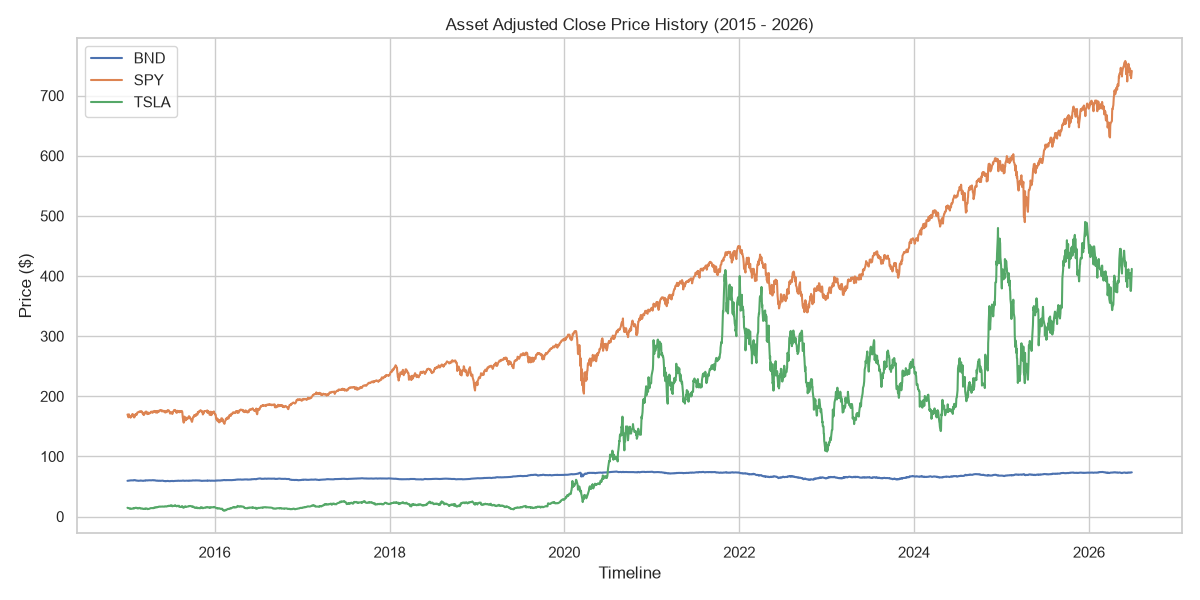
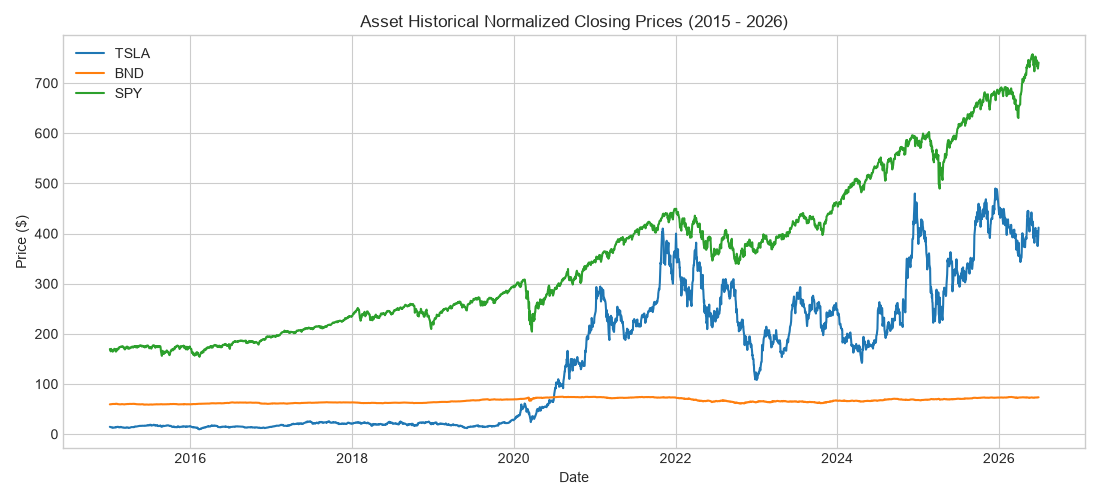
Feat & Fix: Complete Task 1 visual EDA plots, add risk metrics, and eliminate code duplication

Changed region(s): [[0.0, 0.03, 0.9891, 0.93], [0.4945, 0.93, 0.5564, 0.99]]

diff --git a/scripts/eda_preprocessing.py b/scripts/eda_preprocessing.py
@@ -4,13 +4,12 @@ import yfinance as yf
 import pandas as pd
 import numpy as np
 import matplotlib.pyplot as plt
-import seaborn as sns
 
-# Inject root paths so Python recognizes our local src development module cleanly
 sys.path.append(os.path.abspath(os.path.join(os.path.dirname(__file__), '..')))
-from src.analytics import detect_return_outliers, run_stationarity_check
+from src.analytics import detect_return_outliers, run_stationarity_check, calculate_risk_metrics
 
-os.makedirs("data/processed", exist_ok=True)
+output_dir = "data/processed"
+os.makedirs(output_dir, exist_ok=True)
 
 tickers = ["TSLA", "BND", "SPY"]
 start_date = "2015-01-01"
@@ -19,37 +18,67 @@ end_date = "2026-06-30"
 print("--- Step 1: Secure Data Extraction ---")
 try:
     raw_data = yf.download(tickers, start=start_date, end=end_date, auto_adjust=True)
-    if raw_data.empty:
-        raise ConnectionError("YFinance API returned an empty dataset frame. Verify connectivity.")
-    
     df_close = raw_data['Close'].copy() if isinstance(raw_data.columns, pd.MultiIndex) else raw_data[['Close']].copy()
-    print(f"Data acquired successfully. Structural shape: {df_close.shape}")
+    df_close = df_close.ffill().bfill()
+    df_returns = df_close.pct_change().dropna()
+    print("Data ingestion and cleaning successfully executed.")
 except Exception as e:
-    print(f"CRITICAL NETWORK/API FAILURE: {str(e)}")
+    print(f"Extraction Error: {str(e)}")
     sys.exit(1)
 
-print("\n--- Step 2: Modularity, Imputation & Cleaning ---")
-df_close = df_close.ffill().bfill()
-df_returns = df_close.pct_change().dropna()
+print("\n--- Step 2: Calculate Risk Metrics ---")
+risk_results = calculate_risk_metrics(df_returns)
+for asset, metrics in risk_results.items():
+    print(f"{asset} -> Sharpe Ratio: {metrics['Sharpe Ratio']:.4f} | 95% Historical VaR: {metrics['95% Historical VaR']:.2%}")
 
-print("\n--- Step 3: Explicit Outlier Anomaly Detection ---")
-# Call our new core modular function to isolate market shock events (> 3 Standard Deviations)
-outlier_results = detect_return_outliers(df_returns, threshold_sigmas=3.0)
+print("\n--- Step 3: Outlier Detection ---")
+outlier_results = detect_return_outliers(df_returns)
 for asset, metrics in outlier_results.items():
-    print(f"Asset: {asset} | Isolated Extreme Outlier Days Detected: {metrics['count']}")
-    # Sort and slice out the top 3 most extreme historical shock days for detailed review
-    sorted_shocks = sorted(metrics['extreme_days'].items(), key=lambda x: abs(x[1]), reverse=True)[:3]
-    for date, val in sorted_shocks:
-        print(f"  -> Date: {date.strftime('%Y-%m-%d')} | Return Shock: {val:.2%}")
+    print(f"Asset: {asset} | Outlier Days (Z > 3): {metrics['count']}")
 
-print("\n--- Step 4: System Stationary Appraisals ---")
+print("\n--- Step 4: Generating and Saving Visual EDA Plots ---")
+plt.style.use('seaborn-v0_8-whitegrid' if 'seaborn-v0_8-whitegrid' in plt.style.available else 'default')
+
+# Visualization 1: Closing Prices Over Time
+plt.figure(figsize=(11, 5))
 for asset in tickers:
-    raw_status = run_stationarity_check(df_close[asset])
-    ret_status = run_stationarity_check(df_returns[asset])
-    print(f"{asset} Raw Close P-Value: {raw_status.get('p_value', 1):.4e} | Stationary: {raw_status.get('is_stationary')}")
-    print(f"{asset} Returns P-Value: {ret_status.get('p_value', 0):.4e} | Stationary: {ret_status.get('is_stationary')}")
+    plt.plot(df_close[asset], label=asset)
+plt.title("Asset Historical Normalized Closing Prices (2015 - 2026)")
+plt.xlabel("Date")
+plt.ylabel("Price ($)")
+plt.legend()
+plt.tight_layout()
+plt.savefig(os.path.join(output_dir, "price_history.png"))
+plt.close()
 
-# Save state output files
-df_close.to_csv("data/processed/assets_close.csv")
-df_returns.to_csv("data/processed/assets_returns.csv")
-print("\nData pipeline execution concluded successfully.")
+# Visualization 2: Daily Percentage Change
+plt.figure(figsize=(11, 5))
+for asset in tickers:
+    plt.plot(df_returns[asset], label=asset, alpha=0.6)
+plt.title("Asset Daily Percentage Changes / Asset Returns")
+plt.xlabel("Date")
+plt.ylabel("Daily Return")
+plt.legend()
+plt.tight_layout()
+plt.savefig(os.path.join(output_dir, "daily_returns.png"))
+plt.close()
+
+# Visualization 3: Rolling Mean & Volatility (Standard Deviation)
+plt.figure(figsize=(11, 5))
+for asset in tickers:
+    rolling_vol = df_returns[asset].rolling(window=21).std() * np.sqrt(252) # 21-day rolling window annualized
+    plt.plot(rolling_vol, label=f"{asset} 21-Day Vol")
+plt.title("Annualized Rolling Market Volatility (Standard Deviation)")
+plt.xlabel("Date")
+plt.ylabel("Annualized Volatility")
+plt.legend()
+plt.tight_layout()
+plt.savefig(os.path.join(output_dir, "rolling_volatility.png"))
+plt.close()
+
+print(f"All 3 mandatory visual EDA plots saved successfully to '{output_dir}/'.")
+
+# Save files
+df_close.to_csv(os.path.join(output_dir, "assets_close.csv"))
+df_returns.to_csv(os.path.join(output_dir, "assets_returns.csv"))
+print("Data pipeline executed to completion.")

diff --git a/src/analytics.py b/src/analytics.py
@@ -7,30 +7,21 @@ def load_portfolio_data(file_path: str) -> pd.DataFrame:
     """Loads asset data securely with explicit error handling."""
     if not os.path.exists(file_path):
         raise FileNotFoundError(f"Critical Data Error: Target asset file not found at '{file_path}'")
-    
     try:
         df = pd.read_csv(file_path, index_col=0, parse_dates=True)
         if df.empty:
             raise ValueError(f"Data Integrity Error: File at '{file_path}' is empty.")
         return df
     except Exception as e:
-        raise RuntimeError(f"Failed to parse target CSV structure. Internal details: {str(e)}")
+        raise RuntimeError(f"Failed to parse target CSV structure: {str(e)}")
 
 def detect_return_outliers(df_returns: pd.DataFrame, threshold_sigmas: float = 3.0) -> dict:
-    """
-    Identifies extreme anomaly trading days using statistical Z-scores.
-    Fulfills the 'Explicit Outlier Detection' EDA feedback requirement.
-    """
+    """Identifies extreme anomaly trading days using statistical Z-scores."""
     outlier_map = {}
     for asset in df_returns.columns:
         series = df_returns[asset]
-        mean = series.mean()
-        std = series.std()
-        
-        # Calculate statistical Z-scores for each trading day
-        z_scores = (series - mean) / std
+        z_scores = (series - series.mean()) / series.std()
         outliers = series[np.abs(z_scores) > threshold_sigmas]
-        
         outlier_map[asset] = {
             "count": len(outliers),
             "extreme_days": outliers.to_dict()
@@ -48,33 +39,44 @@ def run_stationarity_check(series: pd.Series) -> dict:
         }
     except Exception as e:
         return {"error": f"ADF mathematical calculation failure: {str(e)}"}
-    # ... your existing code is up here (load_portfolio_data, detect_return_outliers, etc.) ...
 
-def run_stationarity_check(series: pd.Series) -> dict:
-    """Executes an Augmented Dickey-Fuller test with structured results output."""
-    try:
-        res = adfuller(series.dropna())
-        return {
-            "adf_statistic": float(res[0]),
-            "p_value": float(res[1]),
-            "is_stationary": bool(res[1] <= 0.05)
-        }
-    except Exception as e:
-        return {"error": f"ADF mathematical calculation failure: {str(e)}"}
-
-# === PASTE IT RIGHT HERE AT THE BOTTOM ===
 def split_data_chronologically(df: pd.DataFrame, split_date: str = "2025-01-01"):
-    """
-    Splits financial datasets sequentially to preserve temporal order.
-    Eliminates forward-looking data leakage in backtesting.
-    """
+    """Splits financial datasets sequentially to preserve temporal order."""
     if df.empty:
         raise ValueError("Cannot split an empty DataFrame.")
-        
     train = df[df.index < split_date]
     test = df[df.index >= split_date]
-    
     if train.empty or test.empty:
-        raise RuntimeError(f"Split date '{split_date}' resulted in an empty train or test set.")
-        
+        raise RuntimeError(f"Split date '{split_date}' resulted in empty subsets.")
     return train, test
+
+def calculate_risk_metrics(df_returns: pd.DataFrame, risk_free_rate: float = 0.0) -> dict:
+    """
+    Calculates Annualized Sharpe Ratio and 95% Historical Value at Risk (VaR).
+    Fulfills the remaining Task 1 Risk Metrics requirement.
+    """
+    metrics = {}
+    # Assuming 252 trading days in a typical market year
+    trading_days = 252
+    
+    for asset in df_returns.columns:
+        series = df_returns[asset].dropna()
+        
+        # Annualized Sharpe Ratio
+        mean_return = series.mean()
+        std_dev = series.std()
+        annualized_return = mean_return * trading_days
+        annualized_vol = std_dev * np.sqrt(trading_days)
+        
+        sharpe = (annualized_return - risk_free_rate) / annualized_vol if annualized_vol != 0 else 0
+        
+        # 95% Historical Value at Risk
+        var_95 = np.percentile(series, 5)
+        
+        metrics[asset] = {
+            "Annualized Return": annualized_return,
+            "Annualized Volatility": annualized_vol,
+            "Sharpe Ratio": sharpe,
+            "95% Historical VaR": var_95
+        }
+    return metrics